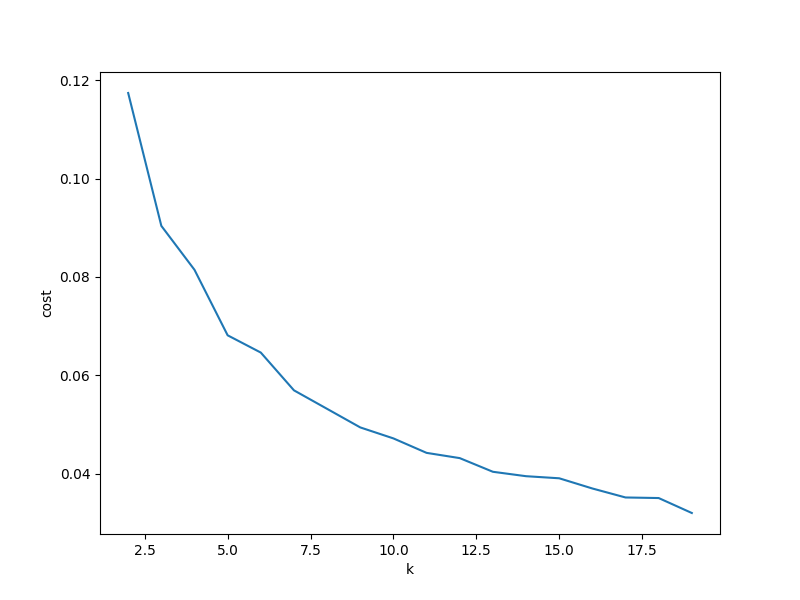
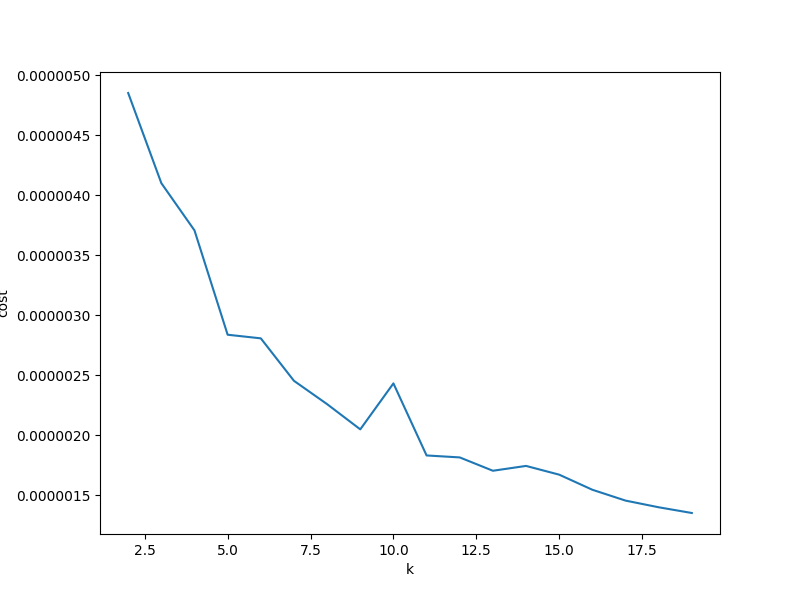
step1

diff --git a/Clustering/playerCluster.py b/Clustering/playerCluster.py
@@ -30,11 +30,9 @@ spark = SparkSession.builder.appName('NBA-Analysis').getOrCreate()
 data = spark.read.csv(path, header=True, inferSchema=True)
 data.printSchema()
 
-data = data.where((col('mp')/col('g') > 20) & (
-        (col("yr") == 2015) | (col("yr") == 2016) | (col("yr") == 2014) | (col("yr") == 2013) | (
-        col("yr") == 2012)))
+data = data.where((col('mp') / col('g') > 20) & (
+        (col("yr") == 2016)))
 data = data.na.fill(0)
-
 '''
 Normalizations part
 '''
@@ -45,7 +43,7 @@ def normalize(data, name):
     min_age, max_age = data.select(min(name), max(name)).first()
     newCol = "normalized_" + name
     newFEATURES_COL.append(newCol)
-    data = data.withColumn(newCol, ((col(name) * col('g') / col('mp') - min_age) / (
+    data = data.withColumn(newCol, ((col(name) / col('mp') - min_age) / (
             max_age - min_age)))
     return data
 
@@ -85,7 +83,7 @@ plt.ioff()
 fig.show()
 plt.savefig('K_Selection.png')
 
-k = 8
+k = 5
 kmeans = KMeans().setK(k).setSeed(1).setFeaturesCol("features")
 model = kmeans.fit(df_kmeans)
 centers = model.clusterCenters()

diff --git a/Clustering/TeamClustering.py b/Clustering/TeamClustering.py
@@ -37,7 +37,7 @@ plt.ioff()
 fig.show()
 plt.savefig('K_Selection.png')
 
-k = 11
+k = 5
 kmeans = KMeans().setK(k).setSeed(1).setFeaturesCol("features")
 model = kmeans.fit(df_kmeans)
 centers = model.clusterCenters()
